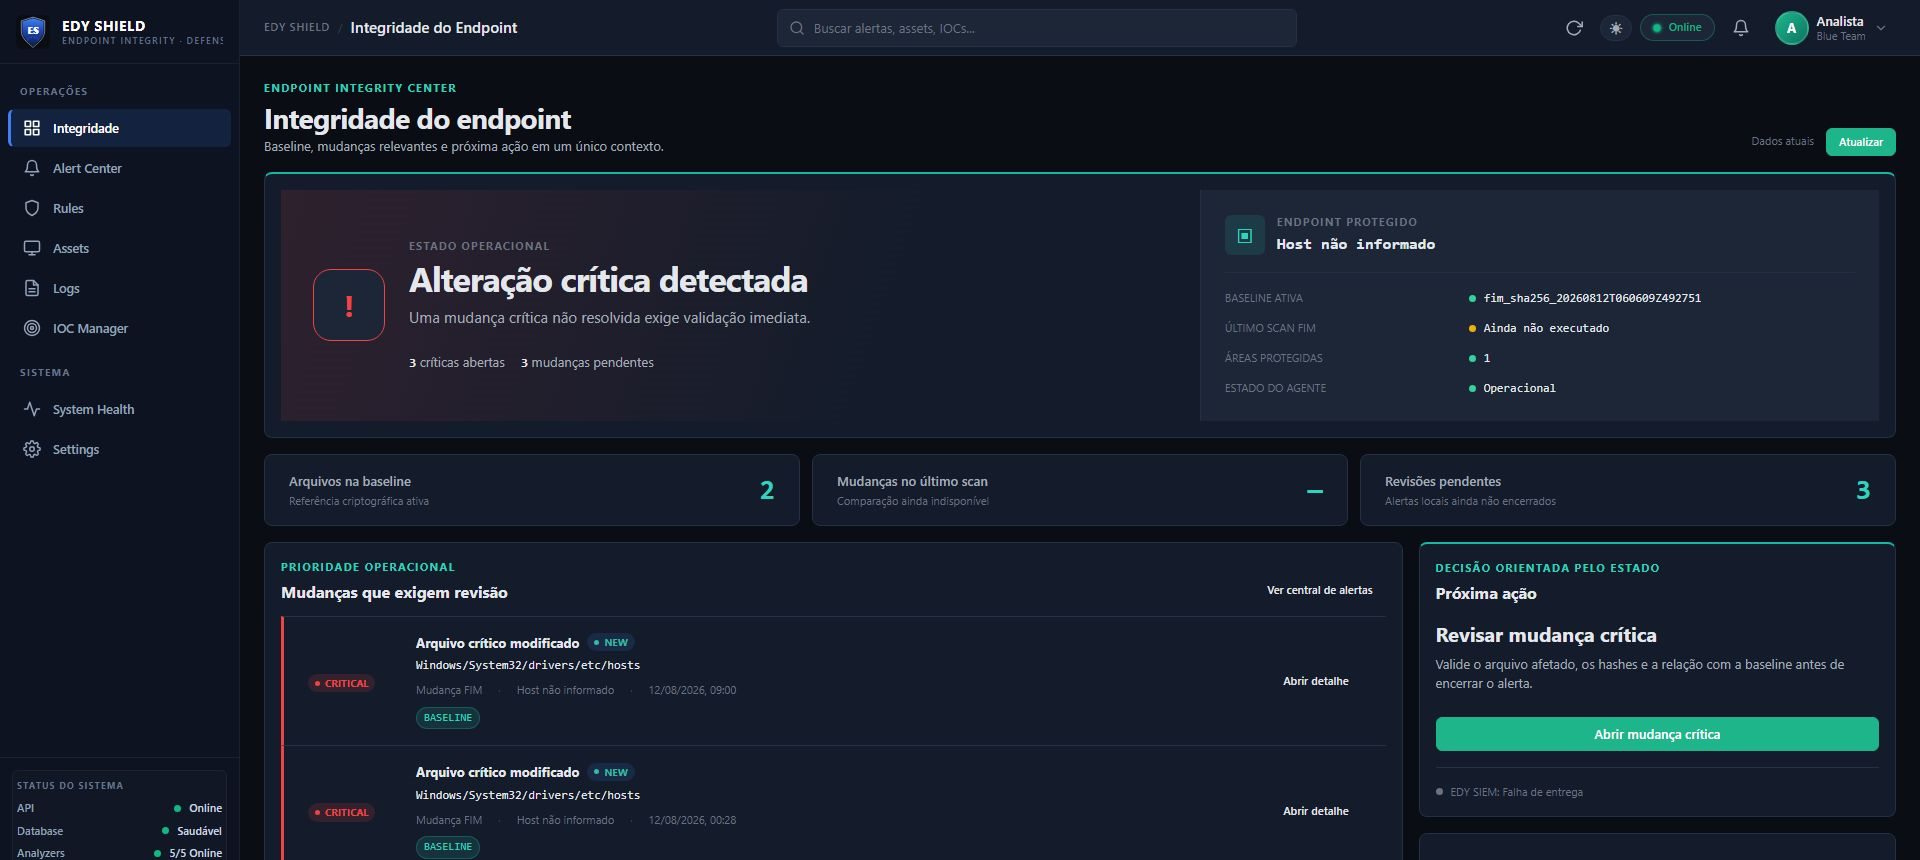
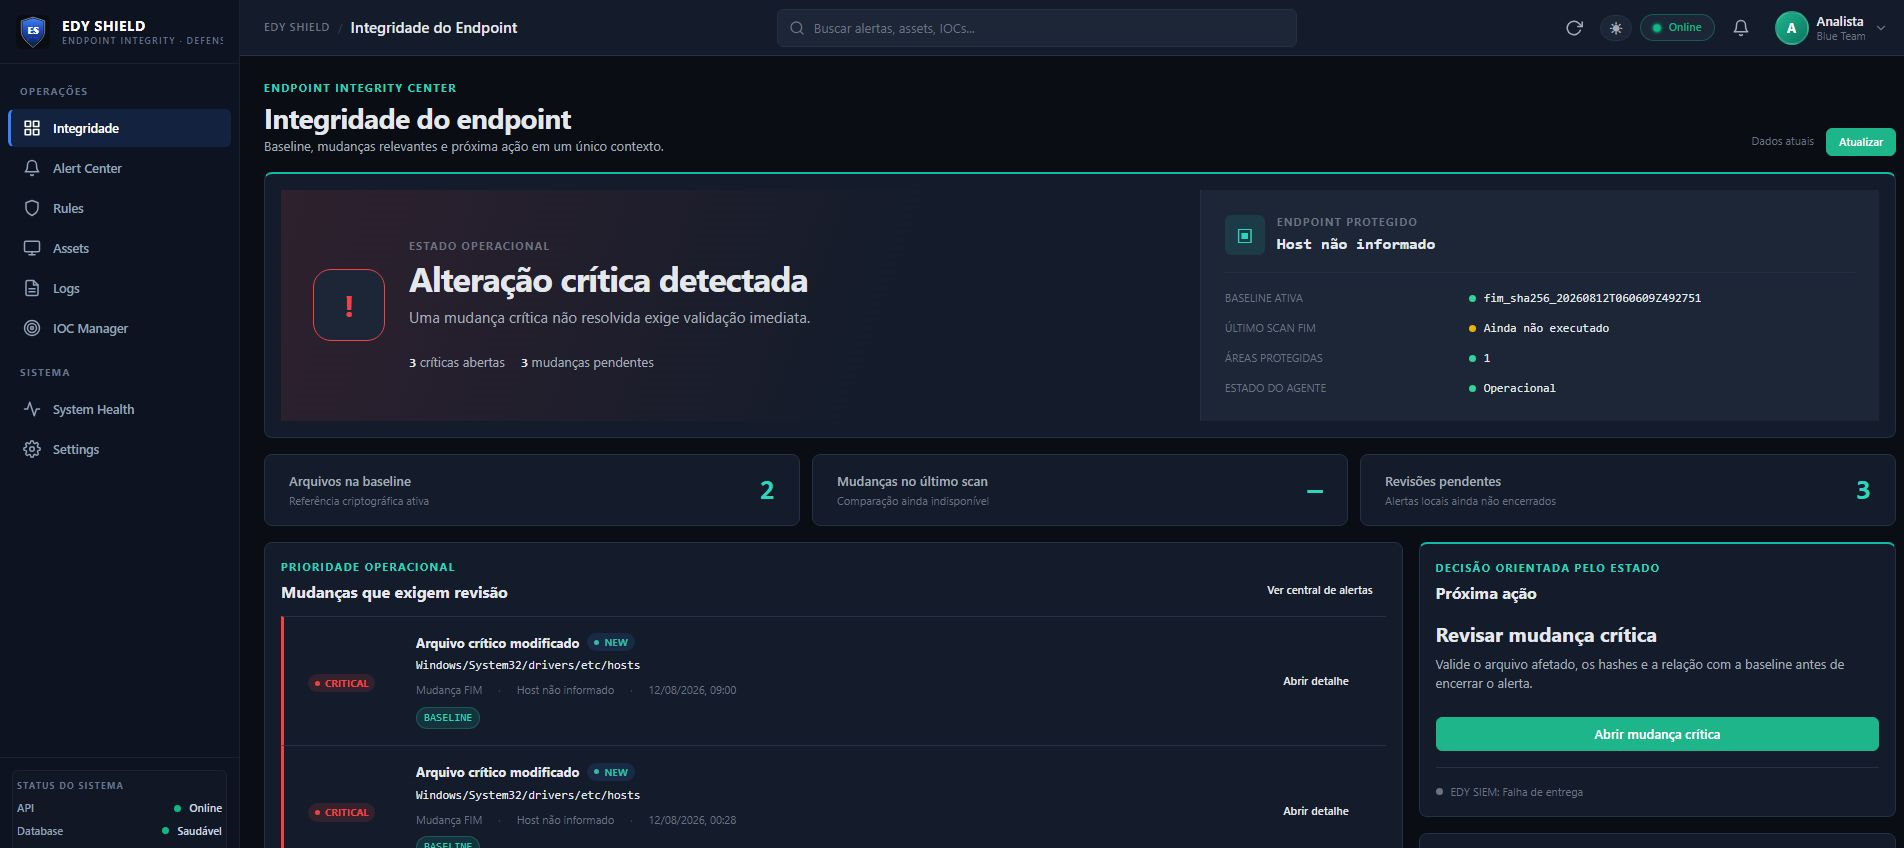
docs(linkedin): approve EDY Shield post for 14 August

diff --git a/docs/social/linkedin/CALENDARIO_2026-08_EDY.md b/docs/social/linkedin/CALENDARIO_2026-08_EDY.md
@@ -3,7 +3,7 @@
 | Data | Status | Tema | Arquivo |
 | --- | --- | --- | --- |
 | 12/08 | PUBLISHED | EDY Shield + EDY SIEM — release/ecossistema integrado | `2026-08-12-edy-shield-siem-release.md` |
-| 14/08 | DRAFT | EDY Shield por dentro — Endpoint Integrity & Defense | `2026-08-14-edy-shield-endpoint-integrity.md` |
+| 14/08 | APPROVED | EDY Shield por dentro — Endpoint Integrity & Defense | `2026-08-14-edy-shield-endpoint-integrity.md` |
 | 17/08 | DRAFT | EDY SIEM por dentro — SOC Decision Center | `2026-08-17-edy-siem-soc-decision-center.md` |
 | 19/08 | DRAFT | Como construí a integração Shield → SIEM | `2026-08-19-shield-siem-event-contract.md` |
 | 21/08 | DRAFT | Investigation Workflow | `2026-08-21-edy-investigation-workflow.md` |

diff --git a/docs/social/linkedin/2026-08-14-edy-shield-endpoint-integrity.md b/docs/social/linkedin/2026-08-14-edy-shield-endpoint-integrity.md
@@ -1,7 +1,7 @@
 # LinkedIn — EDY Shield por dentro: Endpoint Integrity & Defense
 
 - Data planejada: 2026-08-14
-- Status: DRAFT
+- Status: APPROVED
 - Tema: EDY Shield por dentro — Endpoint Integrity & Defense
 - Ângulo: por que FIM não deve se comportar como um mini-SIEM.
 - Imagem selecionada: `2026-08-14-edy-shield-endpoint-integrity.png`
